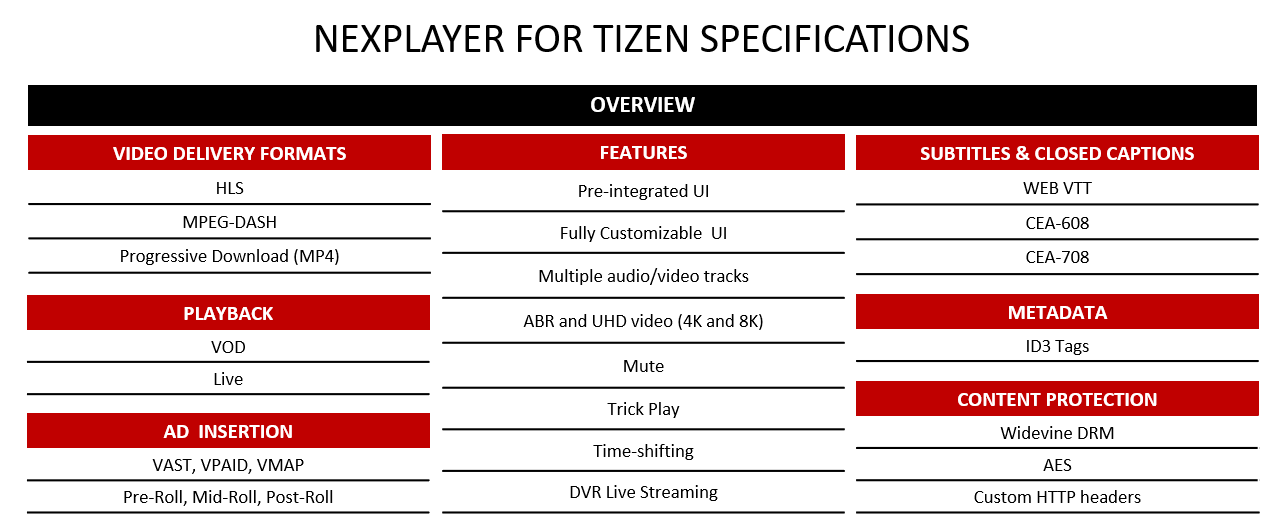
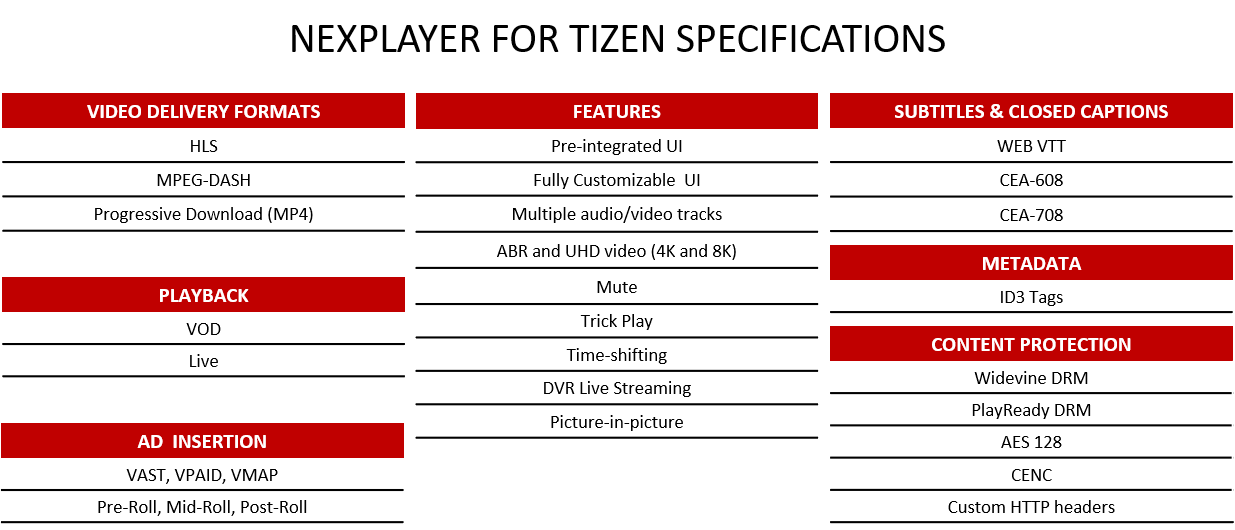
1.3.6

diff --git a/release_notes.html b/release_notes.html
@@ -438,9 +438,14 @@
                                 
                                 <h1 id="releases"> Release Notes</h1>
 <p>Each version of the SDK is hosted in a CDN to allow faster and more efficient developments. Optionally, the library can be downloaded and hosted on a custom server.</p>
-<h3 id="version-1333"><a href="https://nexplayer.nexplayersdk.com/tizen/1.3.5/nexplayer.js" target="_blank">version 1.3.5</a></h3>
-<pre><code>https://nexplayer.nexplayersdk.com/tizen/1.3.5/nexplayer.js
+<h3 id="version-1333"><a href="https://nexplayer.nexplayersdk.com/tizen/1.3.6/nexplayer.js" target="_blank">version 1.3.6</a></h3>
+<pre><code>https://nexplayer.nexplayersdk.com/tizen/1.3.6/nexplayer.js
 </code></pre><ul>
+<li><strong>[Added]</strong> Added Widevine and Playready support (Only supported by Tizen 4.0 (2018) or newer versions)</li>
+<li><strong>[Improved]</strong> Bug fixes </li>
+</ul>
+<h3 id="version-135">version 1.3.5</h3>
+<ul>
 <li><strong>[Added]</strong> Added Default Settings for Remote Controller</li>
 <li><strong>[Added]</strong> New UI Features</li>
 <li><strong>[Improved]</strong> Documentation snippets can be easily copied</li>

diff --git a/advance.html b/advance.html
@@ -546,7 +546,7 @@ nexplayerInstance.setAudioStream(nexplayerInstance.getAudioStreams()[<span class
 <pre><code class="lang-javascript">nexplayerInstance.seek(<span class="hljs-number">30</span>);
 </code></pre>
 <h4 id="PiP">Picture in Picture </h4>
-<p>Only valid in models equal or greater than Tizen 2018</p>
+<p>Only supported by Tizen 4.0 (2018) or newer versions</p>
 <pre><code class="lang-javascript"><span class="hljs-keyword">var</span> callBackWithPlayers = <span class="hljs-function"><span class="hljs-keyword">function</span> (<span class="hljs-params">nexplayerInstance, videoElement</span>) </span>{
     videoElement.requestPictureInPicture()
   };
